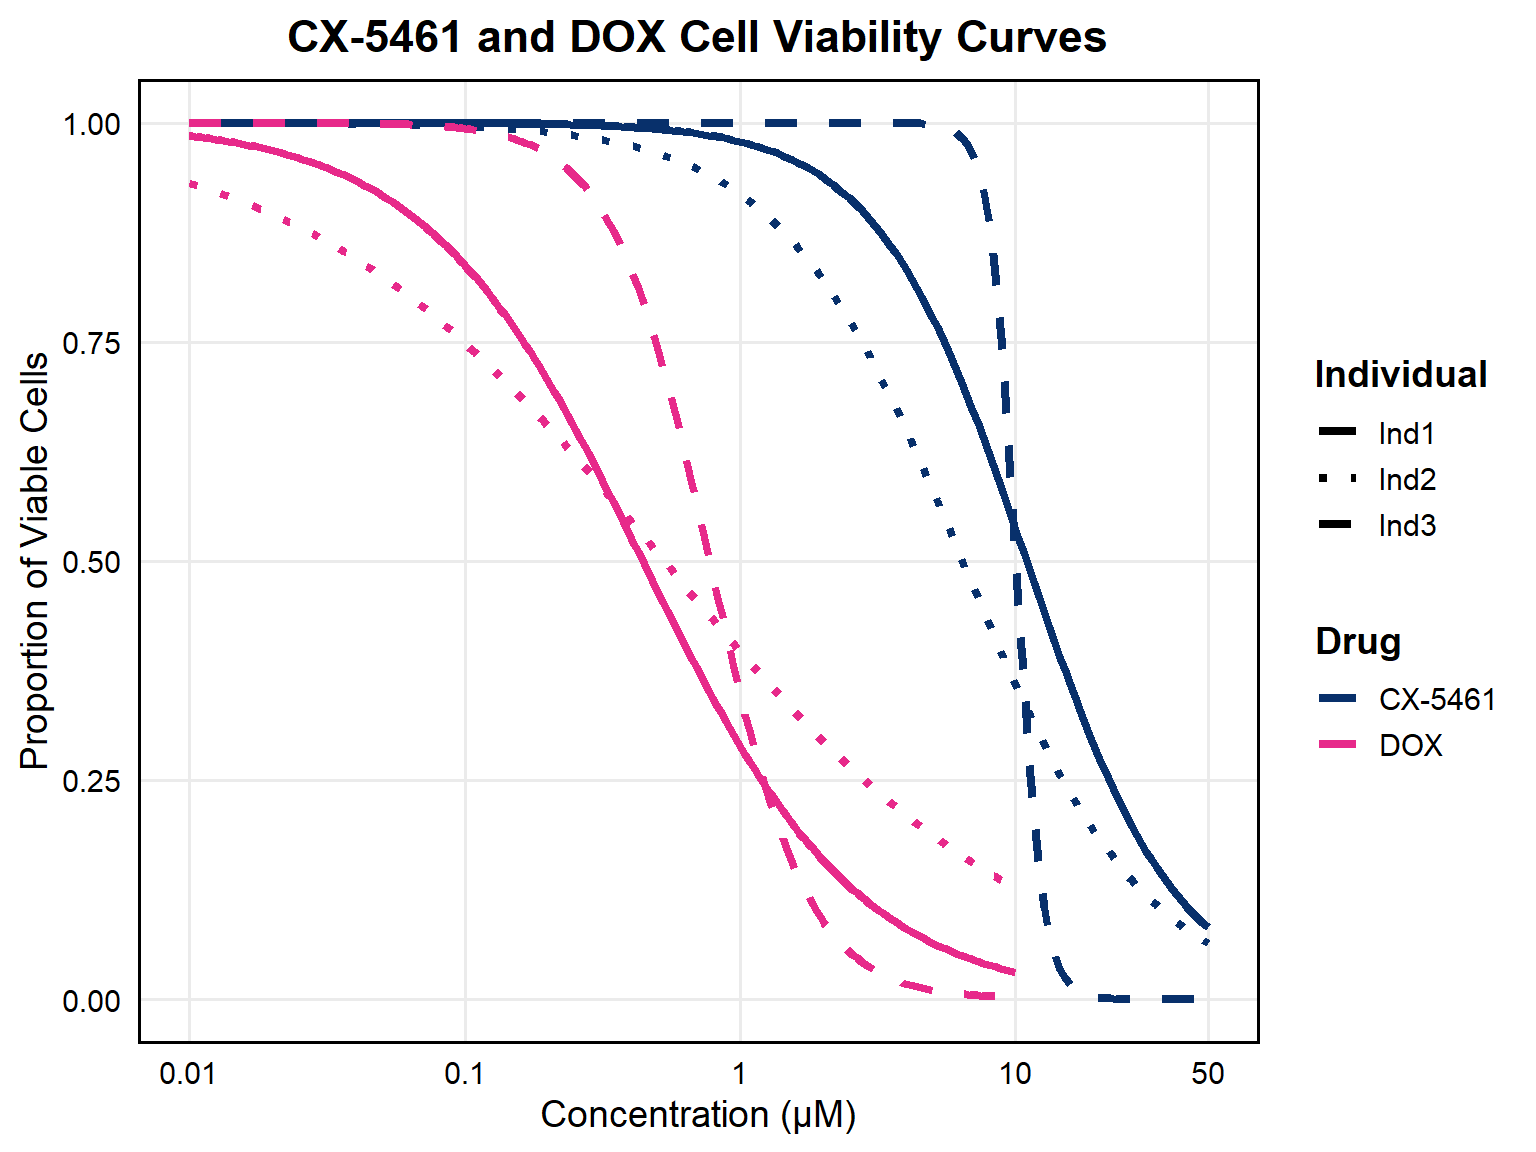
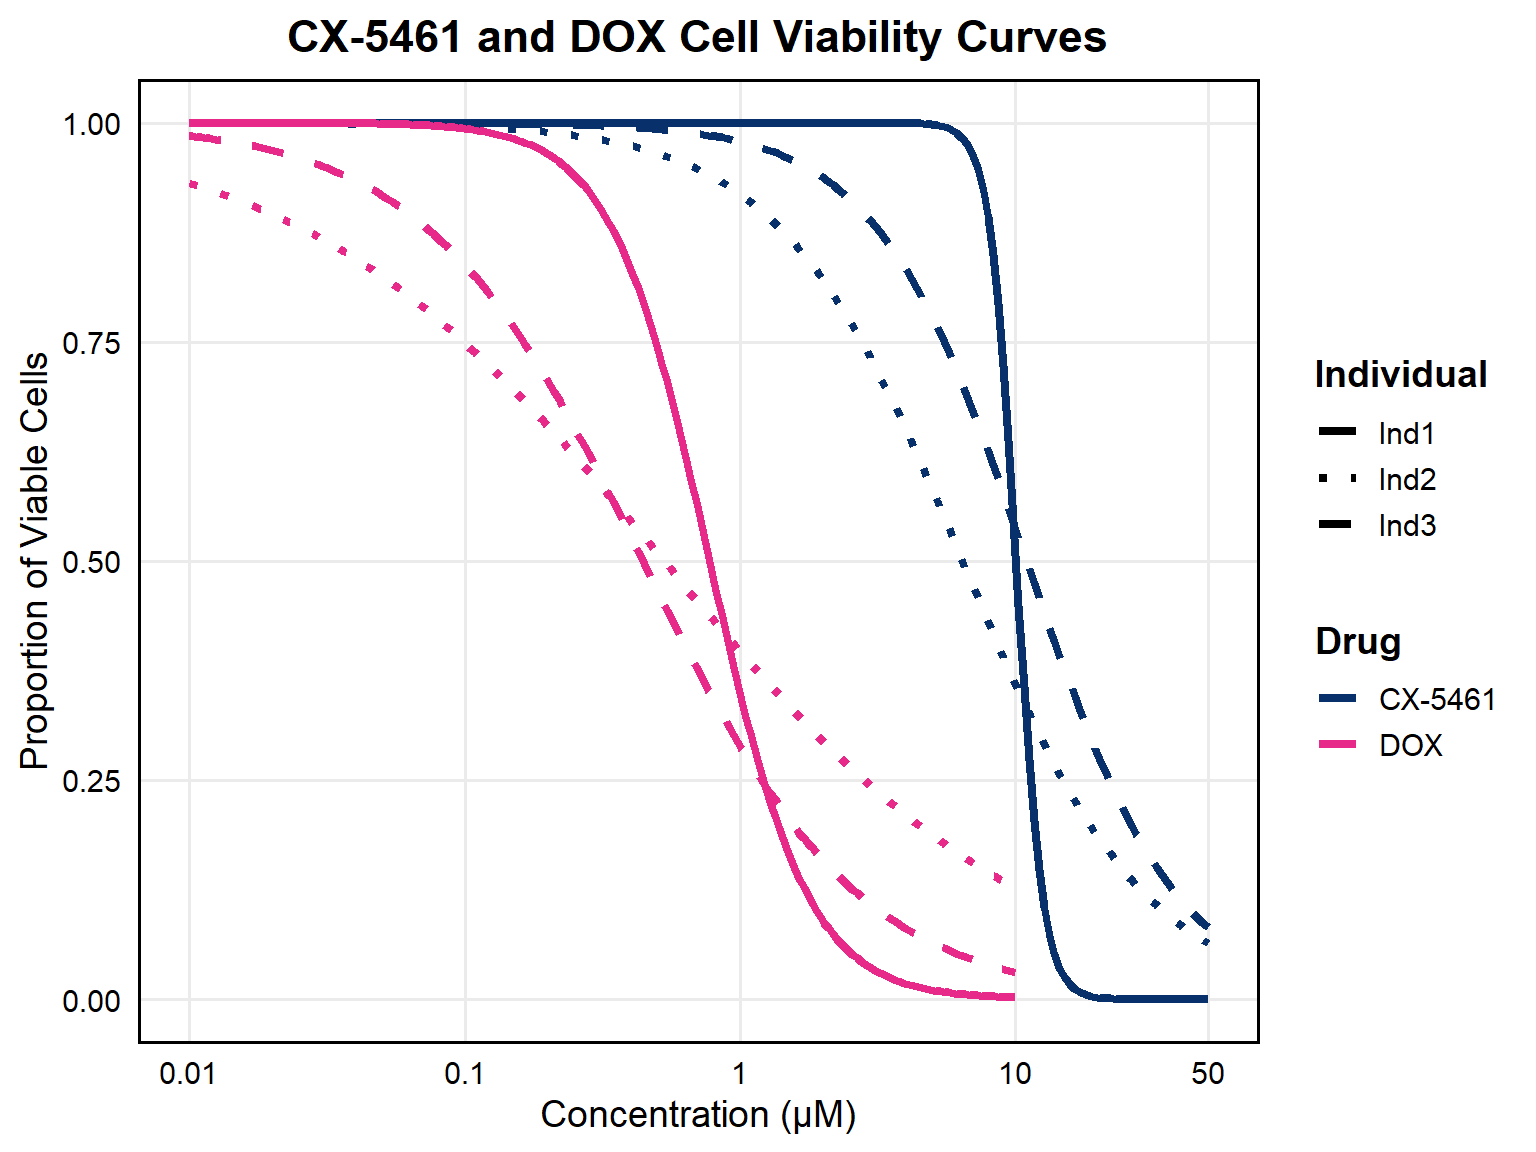
Commit

diff --git a/docs/DRC.html b/docs/DRC.html
@@ -357,7 +357,7 @@ div.tocify {
 <p>
 <button type="button" class="btn btn-default btn-workflowr btn-workflowr-report" data-toggle="collapse" data-target="#workflowr-report">
 <span class="glyphicon glyphicon-list" aria-hidden="true"></span>
-workflowr <span class="glyphicon glyphicon-exclamation-sign text-danger"
+workflowr <span class="glyphicon glyphicon-ok text-success"
 aria-hidden="true"></span>
 </button>
 </p>
@@ -368,8 +368,8 @@ aria-hidden="true"></span>
 </li>
 <li>
 <a data-toggle="tab" href="#checks"> Checks <span
-class="glyphicon glyphicon-exclamation-sign text-danger"
-aria-hidden="true"></span> </a>
+class="glyphicon glyphicon-ok text-success" aria-hidden="true"></span>
+</a>
 </li>
 <li>
 <a data-toggle="tab" href="#versions">Past versions</a>
@@ -382,9 +382,9 @@ aria-hidden="true"></span> </a>
 </p>
 <p>
 <strong>Checks:</strong> <span
-class="glyphicon glyphicon-ok text-success" aria-hidden="true"></span> 6
+class="glyphicon glyphicon-ok text-success" aria-hidden="true"></span> 7
 <span class="glyphicon glyphicon-exclamation-sign text-danger"
-aria-hidden="true"></span> 1
+aria-hidden="true"></span> 0
 </p>
 <p>
 <strong>Knit directory:</strong> <code>CX5461_Project/</code> <span
@@ -407,21 +407,18 @@ versions</em> tab lists the development history.
 <div class="panel panel-default">
 <div class="panel-heading">
 <p class="panel-title">
-<a data-toggle="collapse" data-parent="#workflowr-checks" href="#strongRMarkdownfilestronguncommittedchanges">
-<span class="glyphicon glyphicon-exclamation-sign text-danger"
-aria-hidden="true"></span> <strong>R Markdown file:</strong> uncommitted
-changes </a>
+<a data-toggle="collapse" data-parent="#workflowr-checks" href="#strongRMarkdownfilestronguptodate">
+<span class="glyphicon glyphicon-ok text-success"
+aria-hidden="true"></span> <strong>R Markdown file:</strong> up-to-date
+</a>
 </p>
 </div>
-<div id="strongRMarkdownfilestronguncommittedchanges"
+<div id="strongRMarkdownfilestronguptodate"
 class="panel-collapse collapse">
 <div class="panel-body">
-<p>The R Markdown file has unstaged changes. To know which version of
-the R Markdown file created these results, you’ll want to first commit
-it to the Git repo. If you’re still working on the analysis, you can
-ignore this warning. When you’re finished, you can run
-<code>wflow_publish</code> to commit the R Markdown file and build the
-HTML.</p>
+<p>Great! Since the R Markdown file has been committed to the Git
+repository, you know the exact version of the code that produced these
+results.</p>
 </div>
 </div>
 </div>
@@ -512,15 +509,15 @@ project makes it easier to run your code on other machines.</p>
 <div class="panel panel-default">
 <div class="panel-heading">
 <p class="panel-title">
-<a data-toggle="collapse" data-parent="#workflowr-checks" href="#strongRepositoryversionstrongahrefhttpsgithubcomsayanpaul01CX5461Projecttree62952c3197f03f4dc5c751d1ca7cf0ec824b8ddbtargetblank62952c3a">
+<a data-toggle="collapse" data-parent="#workflowr-checks" href="#strongRepositoryversionstrongahrefhttpsgithubcomsayanpaul01CX5461Projecttree7243dd27aa039bd44fdcb875a7877bcb3586dcdetargetblank7243dd2a">
 <span class="glyphicon glyphicon-ok text-success"
 aria-hidden="true"></span> <strong>Repository version:</strong>
-<a href="https://github.com/sayanpaul01/CX5461_Project/tree/62952c3197f03f4dc5c751d1ca7cf0ec824b8ddb" target="_blank">62952c3</a>
+<a href="https://github.com/sayanpaul01/CX5461_Project/tree/7243dd27aa039bd44fdcb875a7877bcb3586dcde" target="_blank">7243dd2</a>
 </a>
 </p>
 </div>
 <div
[2 lines of base64/hex data omitted]
 class="panel-collapse collapse">
 <div class="panel-body">
 <p>
@@ -530,7 +527,7 @@ reproducibility.
 </p>
 <p>
 The results in this page were generated with repository version
-<a href="https://github.com/sayanpaul01/CX5461_Project/tree/62952c3197f03f4dc5c751d1ca7cf0ec824b8ddb" target="_blank">62952c3</a>.
+<a href="https://github.com/sayanpaul01/CX5461_Project/tree/7243dd27aa039bd44fdcb875a7877bcb3586dcde" target="_blank">7243dd2</a>.
 See the <em>Past versions</em> tab to see a history of the changes made
 to the R Markdown and HTML files.
 </p>
@@ -575,8 +572,9 @@ Untracked files:
     Untracked:  Rplot09.svg
     Untracked:  Rplot10.svg
 
-Unstaged changes:
-    Modified:   analysis/DRC.Rmd
+Staged changes:
+    Modified:   data/CX-5461.csv
+    Modified:   data/DOX.csv
 
 </code></pre>
 <p>
@@ -621,6 +619,40 @@ Message
 </tr>
 </thead>
 <tbody>
+<tr>
+<td>
+Rmd
+</td>
+<td>
+<a href="https://github.com/sayanpaul01/CX5461_Project/blob/7243dd27aa039bd44fdcb875a7877bcb3586dcde/analysis/DRC.Rmd" target="_blank">7243dd2</a>
+</td>
+<td>
+sayanpaul01
+</td>
+<td>
+2025-04-16
+</td>
+<td>
+Commit
+</td>
+</tr>
+<tr>
+<td>
+html
+</td>
+<td>
+<a href="https://rawcdn.githack.com/sayanpaul01/CX5461_Project/7243dd27aa039bd44fdcb875a7877bcb3586dcde/docs/DRC.html" target="_blank">7243dd2</a>
+</td>
+<td>
+sayanpaul01
+</td>
+<td>
+2025-04-16
+</td>
+<td>
+Commit
+</td>
+</tr>
 <tr>
 <td>
 Rmd
@@ -1854,6 +1886,43 @@ text(EC50_DOX, 0.92, paste(&quot;LD50 DOX:&quot;, round(EC50_DOX, 2)),
 legend(&quot;bottomleft&quot;, legend = c(&quot;CX-5461&quot;, &quot;DOX&quot;),
        col = c(&quot;#08306B&quot;, &quot;#E7298A&quot;), lty = 1, lwd = 3.5, bty = &quot;n&quot;)</code></pre>
 <p><img src="figure/DRC.Rmd/load_libraries3-1.png" width="768" style="display: block; margin: auto;" /></p>
+<p>
+<button type="button" class="btn btn-default btn-xs btn-workflowr btn-workflowr-fig" data-toggle="collapse" data-target="#fig-load_libraries3-1">
+Past versions of load_libraries3-1.png
+</button>
+</p>
+<div id="fig-load_libraries3-1" class="collapse">
+<div class="table-responsive">
+<table class="table table-condensed table-hover">
+<thead>
+<tr>
+<th>
+Version
+</th>
+<th>
+Author
+</th>
+<th>
+Date
+</th>
+</tr>
+</thead>
+<tbody>
+<tr>
+<td>
+<a href="https://github.com/sayanpaul01/CX5461_Project/blob/7243dd27aa039bd44fdcb875a7877bcb3586dcde/docs/figure/DRC.Rmd/load_libraries3-1.png" target="_blank">7243dd2</a>
+</td>
+<td>
+sayanpaul01
+</td>
+<td>
+2025-04-16
+</td>
+</tr>
+</tbody>
+</table>
+</div>
+</div>
 <br>
 <p>
 <button type="button" class="btn btn-default btn-workflowr btn-workflowr-sessioninfo" data-toggle="collapse" data-target="#workflowr-sessioninfo" style="display: block;">
